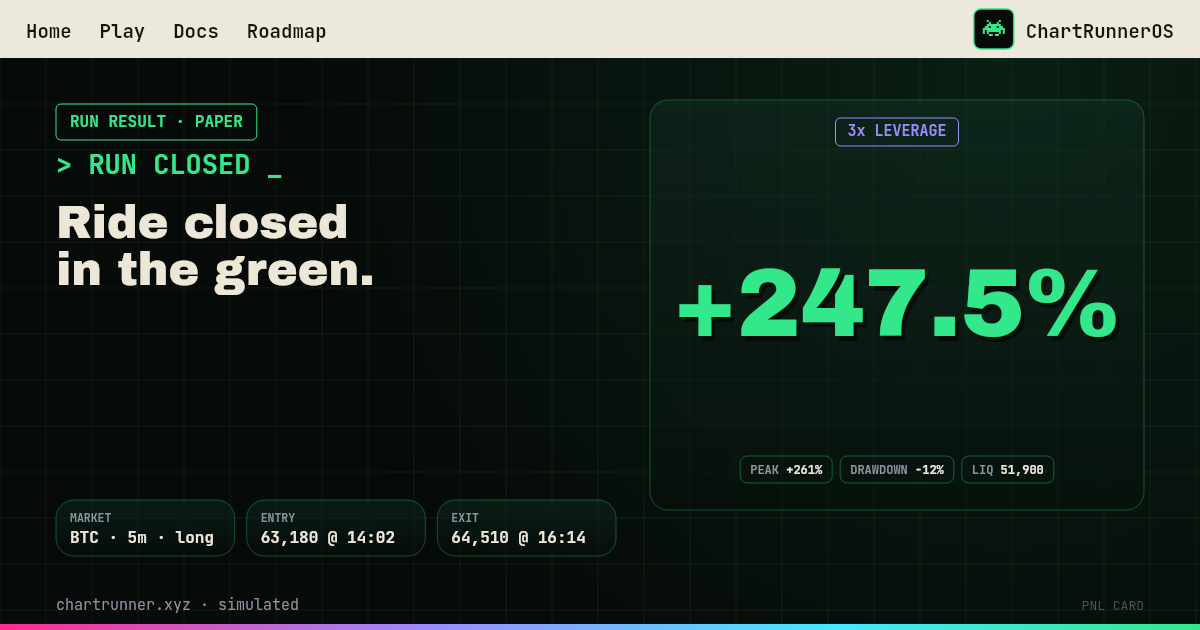
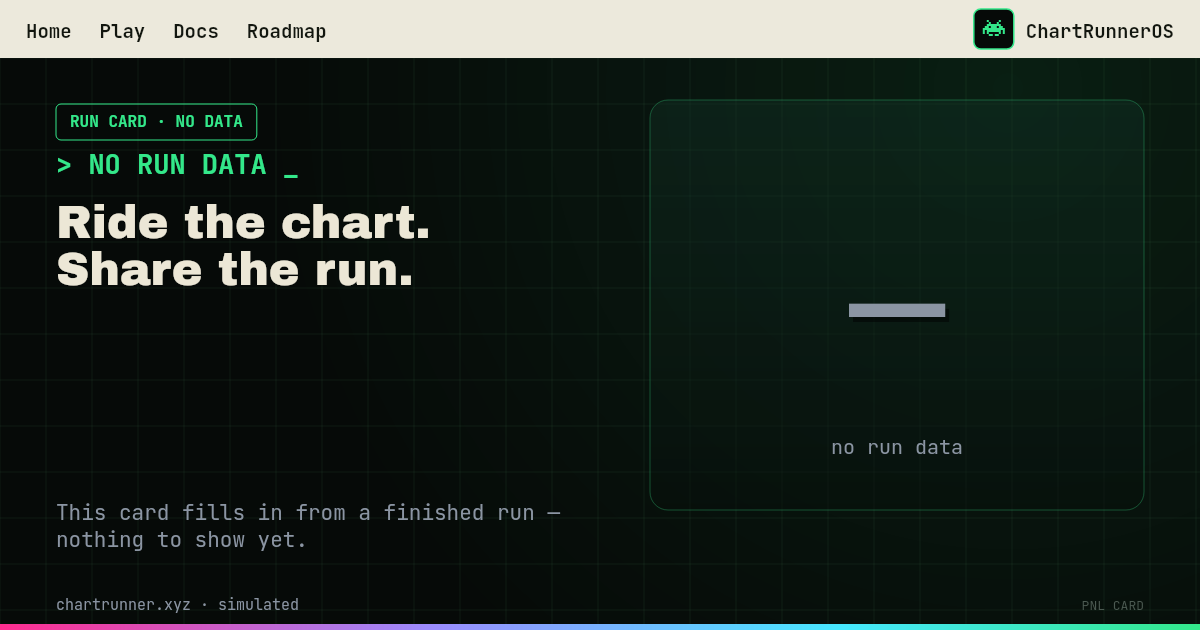
Attrappen 1/4: die P&L-Share-Karte traegt keine erfundenen Zahlen mehr
Der Fund, der als einziger Menschen erreicht, die nie auf der Seite waren.

BEFUND. Der pnl-Eintrag in cr-share-card.js fuehrte einen vollstaendigen
Beispiel-Trade als Vorlagenwert mit: ENTRY 63,180 @ 14:02 / EXIT 64,510 @ 16:14 /
PEAK +261% / DRAWDOWN -12% / LIQ 51,900 / +247.5% / Pille "3x LEVERAGE".
render() zeichnete ihn immer dann, wenn der Aufrufer keine eigenen Werte mitgab.
Genau so ist das committete chartrunner-prototype/cards/pnl.png entstanden — und
das ist das og:image jedes geteilten /s/pnl.html-Links. Erfundene
Handelsergebnisse unter unserem Namen, in der Link-Vorschau.

Dass die Zahlen IMMER aus der Vorlage kamen, ist im Quelltext belegbar: es gibt
keinen Aufrufer, der echte P&L-Werte liefert. window.crShare wird nur mit
type 'chart' (Z. 31920) und type 'multiplayer' (Z. 101145) aufgerufen; share.html
reicht ausschliesslich value/sub/foot aus der URL durch; render-cards.cjs ruft
render(c,{type:'pnl'}) ganz ohne Werte auf.

GEAENDERT.
- pnl-Vorlage: stats, dstats, value und tag sind raus. Neu needsRun:true.
- render(): nimmt jetzt opt.stats / opt.dstats / opt.tag entgegen — liegen echte
  Werte fuer den Lauf vor, rendern sie wie zuvor. Liegt nichts vor, zeichnet die
  Karte ihren Zustand: Marke, Titel, ein Strich, "no run data" und der Satz
  "This card fills in from a finished run — nothing to show yet." Kein
  Platzhalter, kein Beispiel, keine Vorlagenwerte.
- fromRun(): reicht run.stats / run.dstats / run.tag durch.
[…]

diff --git a/chartrunner-prototype/assets/cr-share-card.js b/chartrunner-prototype/assets/cr-share-card.js
@@ -26,10 +26,27 @@
     // of truth for leverage now. MARKET folded in as its own box (was a floating line
     // above the boxes); peak/drawdown/liq now render as chips (dstats), not a floating
     // line either — nothing on this card is unboxed text anymore except captions.
-    pnl:         { chip:'RUN RESULT · PAPER', tag:'3x LEVERAGE', tagColor:'purple', prompt:'> RUN CLOSED _', lead:['Ride closed','in the green.'],
-                   stats:[{k:'MARKET',v:'BTC · 5m · long'},{k:'ENTRY',v:'63,180 @ 14:02'},{k:'EXIT',v:'64,510 @ 16:14'}],
-                   dstats:[{k:'PEAK',v:'+261%'},{k:'DRAWDOWN',v:'-12%'},{k:'LIQ',v:'51,900'}],
-                   value:'+247.5%', size:1, color:'green',
+    // v1.0.942 — DIESE KARTE VERLAESST DAS PRODUKT, ALSO TRAEGT SIE KEINE
+    // ERFUNDENEN ZAHLEN MEHR. Der pnl-Eintrag fuehrte einen vollstaendigen
+    // Beispiel-Trade mit (ENTRY 63,180 / EXIT 64,510 / PEAK +261% / -12% /
+    // LIQ 51,900 / +247.5% / "3x LEVERAGE"), und render() zeichnete ihn immer
+    // dann, wenn der Aufrufer keine eigenen Werte mitgab. Genau so ist das
+    // committete cards/pnl.png entstanden — und das ist das og:image jedes
+    // geteilten /s/pnl.html-Links. Erfundene Handelsergebnisse unter unserem
+    // Namen, bei Leuten, die die Seite nie geoeffnet haben.
+    //
+    // Es gibt heute KEINEN Aufrufer, der echte P&L-Werte liefert: window.crShare
+    // wird nur mit type 'chart' und 'multiplayer' aufgerufen, und share.html
+    // reicht nur value/sub/foot aus der URL durch. Die Zahlen kamen also nie aus
+    // einem Lauf, sondern immer aus dieser Vorlage.
+    //
+    // needsRun:true heisst: Zahlen auf dieser Karte kommen aus opt (value /
+    // stats / dstats / tag) oder gar nicht. Fehlen sie, zeichnet render() den
+    // Zustand — Marke, Titel, ein Strich — statt eines Beispiels.
+    // Die uebrigen Kartentypen sind in dieser Stufe unangetastet (siehe PR).
+    pnl:         { chip:'RUN RESULT · PAPER', tagColor:'purple', prompt:'> RUN CLOSED _',
+                   lead:['Ride the chart.','Share the run.'],
+                   needsRun:true, size:1, color:'green',
                    foot:'chartrunner.xyz · simulated', ftype:'PNL CARD' },
     // v1.0.630b — blabel dropped (the checkered-flag logo is the panel's identity now,
     // "SPRINT TIME" read redundant next to it); rank added (rendered under the flag);
@@ -75,6 +92,23 @@
     if (opt.value != null && opt.value !== '') t.value = String(opt.value);
     if (opt.sub   != null) t.sub = String(opt.sub);
     if (opt.foot  != null) t.foot = String(opt.foot);
+    // v1.0.942 — Laufdaten erreichen die Karte nur ueber opt. Ein Typ mit
+    // needsRun bringt keine eigenen Beispielwerte mit; kommt nichts an, zeichnet
+    // die Karte ihren Leer-Zustand statt eines erfundenen Trades.
+    if (Array.isArray(opt.stats)  && opt.stats.length)  t.stats  = opt.stats;
+    if (Array.isArray(opt.dstats) && opt.dstats.length) t.dstats = opt.dstats;
+    if (opt.tag != null && opt.tag !== ''){ t.tag = String(opt.tag); if (opt.tagColor) t.tagColor = String(opt.tagColor); }
+    if (t.needsRun && (t.value == null || t.value === '')){
+      t.chip   = 'RUN CARD · NO DATA';
+      t.prompt = '> NO RUN DATA _';
+      t.value  = '—';                 // lieber ein Strich als eine Zahl
+      t.color  = 'gray';
+      t.tag    = null;
+      t.stats  = null;
+      t.dstats = null;
+      t.dsub   = 'no run data';
+      if (opt.sub == null) t.sub = 'This card fills in from a finished run — nothing to show yet.';
+    }
 
     // background + radial green glow
     ctx.fillStyle=C.bg; ctx.fillRect(0,0,W,H);
@@ -258,7 +292,11 @@
   function fromRun(canvas, run){
     run=run||{};
     const sub=[run.symbol,run.tf,run.side].filter(Boolean).join(' · ');
-    const m={ pnl:{type:'pnl',value:run.pnl,sub}, racing:{type:'racing',value:run.time,sub},
+    // v1.0.942 — stats/dstats/tag werden durchgereicht, damit ein Lauf, der
+    // echte Entry-/Exit-/Peak-Werte mitbringt, sie auch rendern kann. Bringt er
+    // sie nicht mit, bleibt die Karte leer — sie erfindet keine mehr.
+    const m={ pnl:{type:'pnl',value:run.pnl,sub,stats:run.stats,dstats:run.dstats,tag:run.tag,tagColor:run.tagColor},
+      racing:{type:'racing',value:run.time,sub},
       monster:{type:'monster',value:run.result,sub}, version:{type:'version',value:run.version},
       map:{type:'map',value:run.map}, multiplayer:{type:'multiplayer',value:run.room},
       leaderboard:{type:'leaderboard',value:run.rank}, alert:{type:'alert',value:run.level}, general:{type:'general'} };
